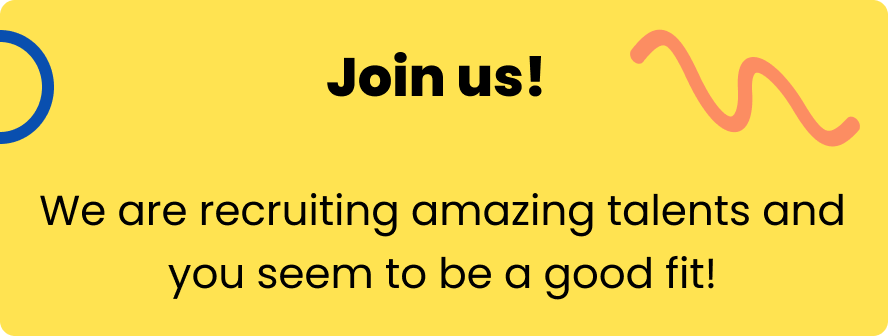
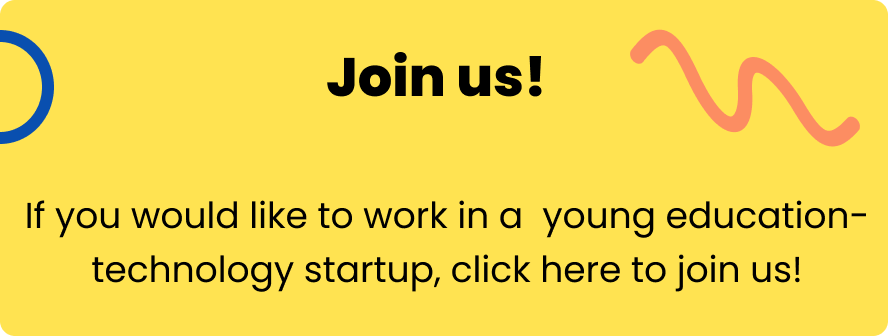
added google form link on join page

Changed region(s): [[0.0304, 0.5655, 0.973, 0.7143], [0.0912, 0.744, 0.9122, 0.8929]]

diff --git a/draw/templates/draw/questions.html b/draw/templates/draw/questions.html
@@ -32,9 +32,9 @@
     }
 
     #timer {
-        margin-right: 5vw;
-        margin-top: 5vh;
         font-style: normal;
+        padding-top: 3vh;
+        text-align: center;
     }
 
     .progress {
@@ -60,9 +60,8 @@
     }
 
     #question {
-        display: table-cell;
         text-align: center;
-        vertical-align: middle;
+        padding-top: 10vh;
     }
 
     #choice1 {
@@ -156,13 +155,13 @@
 <body>
     <div id=container>
         <div id="text">Question 1</div>
-        <div id="timer"></div>
     </div>
     <div class="progress">
         <div class="progress-bar" id="progress" role="progressbar" aria-valuemin="0" aria-valuemax="100" style="width:10%; background-color: #024AAD; border-radius: 50px;"></div>
     </div>
     <div class="question">
         <div id="question"></div>
+        <div id="timer"></div>
     </div>
     <div id="choice1"></div>
     <div id="choice2"></div>
@@ -293,10 +292,7 @@
                 if(choice == "choice"+answer_bank[n]){
                     score = score + 1;
                     document.getElementById("choice" + String(answer_bank[n])).style.background = "#5ECA7C"
-<<<<<<< HEAD
                     document.getElementById("choice" + String(answer_bank[n])).style.borderColor = "#5ECA7C"
-=======
-
                     if([0,2,6].includes(n)){
                         ust_score = ust_score + 1
                     }else if([1,3,4].includes(n)){
@@ -305,7 +301,6 @@
                         math_score = math_score + 1
                     }
 
->>>>>>> 7c50eb2fb0d3b4a5fb237d43ec44acc86fd37eba
                 }else{
                     document.getElementById("choice" + String(answer_bank[n])).style.background = "#5ECA7C"
                     document.getElementById(choice).style.background = "#FF6666"

diff --git a/draw/templates/draw/join.html b/draw/templates/draw/join.html
@@ -104,7 +104,9 @@
 
 <body>
     <img src="/static/images/exampal.png" id="logo">
-    <img src="/static/images/join.png" id="join">
+    <a href="https://docs.google.com/forms/d/e/1FAIpQLSeSJpJDuJuJVzn1SwDNnhBqr5GEkOAiYKQcGuCx9xHg-73zqg/viewform?usp=sf_link">
+        <img src="/static/images/join.png" id="join">
+    </a>
     <img src="/static/images/follow.png" id="follow">
     <div id="row">
         <a href="https://www.instagram.com/exampal_hk/">

diff --git a/draw/urls.py b/draw/urls.py
@@ -7,7 +7,6 @@ urlpatterns = [
     path('index/', views.index, name='index'),
     path('questions/', views.questions, name='questions'),
     path('registration/', views.registration, name='registration'),
-    path('big/', views.big, name='big'),
     path('result/', views.result, name='result'),
     path('new_result/', views.new_result, name='new_result'),
     path('join/', views.join, name='join'),

diff --git a/draw/views.py b/draw/views.py
@@ -19,8 +19,5 @@ def new_result(request):
 def join(request):
     return render(request, 'draw/join.html')
 
-def big(request):
-    return render(request, 'draw/big.html')
-
 
 
